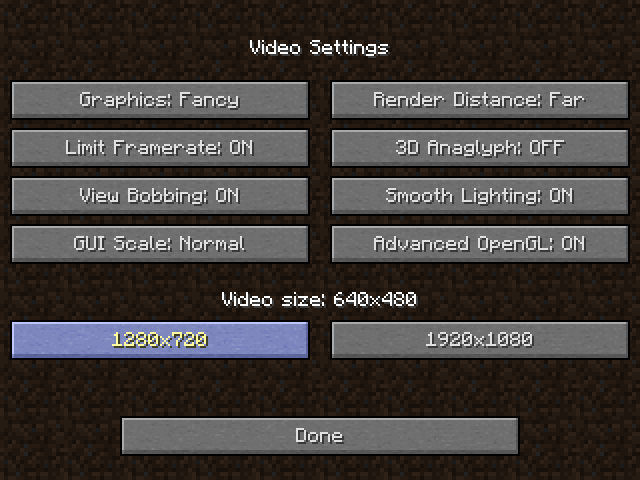
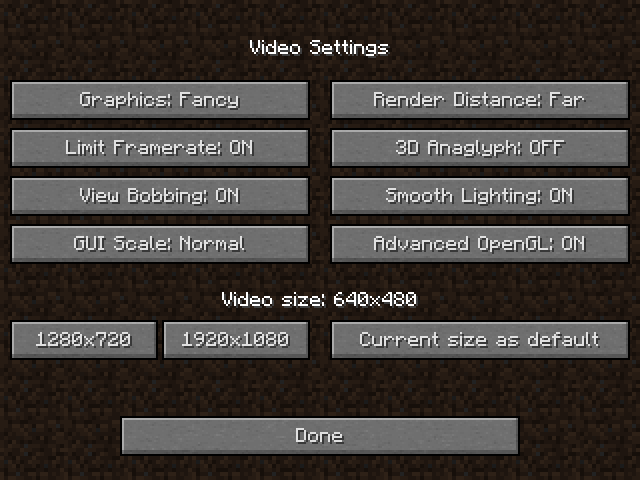
Current Resolution can now be saved and will be restored on game startup.

Changed region(s): [[0.0, 0.6562, 0.5, 0.75], [0.5625, 0.6875, 0.9375, 0.75]]

diff --git a/src/GuiVideoSettings.java b/src/GuiVideoSettings.java
@@ -5,6 +5,9 @@
 package net.minecraft.src;
 
 import java.awt.Frame;
+import java.io.File;
+import java.io.FileWriter;
+import java.io.PrintWriter;
 import java.util.List;
 
 import org.lwjgl.opengl.Display;
@@ -45,8 +48,9 @@ public class GuiVideoSettings extends GuiScreen
             i++;
         }
 
-        controlList.add(new GuiSmallButton(101, width / 2 - 155, height / 6 + 24 * 5, "1280x720"));
-        controlList.add(new GuiSmallButton(102, width / 2 - 155 + 160, height / 6 + 24 * 5, "1920x1080"));
+        controlList.add(new GuiSmallButton(101, width / 2 - 155, height / 6 + 24 * 5, 75, 20, "1280x720"));
+        controlList.add(new GuiSmallButton(102, width / 2 - 155 + 76, height / 6 + 24 * 5, 75, 20, "1920x1080"));
+        controlList.add(new GuiSmallButton(103, width / 2 - 155 + 160, height / 6 + 24 * 5, "Current size as default"));
         controlList.add(new GuiButton(200, width / 2 - 100, height / 6 + 168, stringtranslate.translateKey("gui.done")));
     }
 
@@ -74,7 +78,10 @@ public class GuiVideoSettings extends GuiScreen
         {
         	setInnerSize(1920, 1080);
         }
-        
+        if(guibutton.id == 103)
+        {
+        	setDefaultResolution();
+        }
         ScaledResolution scaledresolution = new ScaledResolution(mc.gameSettings, mc.displayWidth, mc.displayHeight);
         int i = scaledresolution.getScaledWidth();
         int j = scaledresolution.getScaledHeight();
@@ -96,7 +103,7 @@ public class GuiVideoSettings extends GuiScreen
         super.drawScreen(i, j, f);
     }
     
-    private void setInnerSize( int width, int height )
+    public static void setInnerSize( int width, int height )
     {
     	Frame c = java.awt.Frame.getFrames()[0];
     	int iw = c.getInsets().left + c.getInsets().right;
@@ -111,18 +118,38 @@ public class GuiVideoSettings extends GuiScreen
     	c.setLocationRelativeTo(null);
     }
     
-    private int getInnerWidth()
+    public static int getInnerWidth()
     {
     	Frame c = java.awt.Frame.getFrames()[0];
     	int iw = c.getInsets().left + c.getInsets().right;
     	return c.getSize().width - iw;
     }
     
-    private int getInnerHeight()
+    public static int getInnerHeight()
     {
     	Frame c = java.awt.Frame.getFrames()[0];
     	int ih = c.getInsets().top + c.getInsets().bottom;
     	return c.getSize().height - ih;
+    }
+    
+    public static void setDefaultResolution()
+    {
+    	File mcResConfig = new File(Minecraft.getMinecraftDir(), "mcResConfig.txt");
+    	try
+        {
+    		Frame c = java.awt.Frame.getFrames()[0];
+            PrintWriter printwriter = new PrintWriter(new FileWriter(mcResConfig));
+            printwriter.println((new StringBuilder()).append("width:").append(getInnerWidth()).toString());
+            printwriter.println((new StringBuilder()).append("height:").append(getInnerHeight()).toString());
+            int maximized = c.getExtendedState() == Frame.MAXIMIZED_BOTH ? 1 : 0;
+            printwriter.println((new StringBuilder()).append("maximized:").append(maximized).toString());
+            printwriter.close();
+        }
+        catch(Exception exception)
+        {
+            System.out.println("MinecraftResize: Failed to save screen resolution");
+            exception.printStackTrace();
+        }
     }
 
     private GuiScreen field_22110_h;

diff --git a/src/MinecraftAppletImpl.java b/src/MinecraftAppletImpl.java
@@ -1,0 +1,106 @@
+// Decompiled by Jad v1.5.8g. Copyright 2001 Pavel Kouznetsov.
+// Jad home page: http://www.kpdus.com/jad.html
+// Decompiler options: packimports(3) braces deadcode 
+
+package net.minecraft.src;
+
+import java.awt.*;
+import java.io.BufferedReader;
+import java.io.File;
+import java.io.FileReader;
+
+import net.minecraft.client.Minecraft;
+import net.minecraft.client.MinecraftApplet;
+
+// Referenced classes of package net.minecraft.src:
+//            PanelCrashReport, UnexpectedThrowable
+
+public class MinecraftAppletImpl extends Minecraft
+{
+
+    public MinecraftAppletImpl(MinecraftApplet minecraftapplet, Component component, Canvas canvas, MinecraftApplet minecraftapplet1, int i, int j, boolean flag)
+    {
+        super(component, canvas, minecraftapplet1, getDefaultWidth(), getDefaultHeight(), flag);
+        mainFrame = minecraftapplet;
+    }
+    
+    private static int getDefaultWidth()
+    {
+    	if(width == 0) loadDefaultResolution();
+    	return width;
+    }
+    
+    private static int getDefaultHeight()
+    {
+    	if(height == 0) loadDefaultResolution();
+    	return height;
+    }
+    
+    public static void loadDefaultResolution()
+    {
+        File mcResConfig = new File(Minecraft.getMinecraftDir(), "mcResConfig.txt");
+	    try
+	    {
+	        if(mcResConfig.exists())
+	        {
+		        BufferedReader bufferedreader = new BufferedReader(new FileReader(mcResConfig));
+		        for(String line = ""; (line = bufferedreader.readLine()) != null;)
+		        {
+		            String key[] = line.split(":");
+		            if(key[0].equals("width"))
+		            {
+		                width = Integer.parseInt(key[1]);
+		            }
+		            if(key[0].equals("height"))
+		            {
+		                height = Integer.parseInt(key[1]);
+		            }
+		            if(key[0].equals("maximized"))
+		            {
+		                maximized = Integer.parseInt(key[1]);
+		            }
+		        }
+		        bufferedreader.close();
+	        }
+	    }
+	    catch(Exception exception)
+	    {
+	        System.out.println("MinecraftResolutions: Failed to load config");
+	    }
+	    
+	    if( width > 0 && height > 0 )
+	    {
+	    	Frame c = java.awt.Frame.getFrames()[0];
+	    	if(maximized == 0)
+	    	{
+		    	int iw = c.getInsets().left + c.getInsets().right;
+		    	int ih = c.getInsets().top + c.getInsets().bottom;
+		    	int oldw = c.getSize().width;
+		    	int oldh = c.getSize().height;
+		    	c.setSize(width + iw, height + ih);
+		    	int istw = c.getSize().width - iw;
+		    	int isth = c.getSize().height - ih;
+		    	if(istw != width || isth != height)
+		    	{
+		    		c.setSize(oldw, oldh);
+		    	}
+		    	c.setLocationRelativeTo(null);
+	    	}
+	    	else
+	    	{
+	    		c.setExtendedState(Frame.MAXIMIZED_BOTH);
+	    	}
+	    }
+    }
+
+    public void displayUnexpectedThrowable(UnexpectedThrowable unexpectedthrowable)
+    {
+        mainFrame.removeAll();
+        mainFrame.setLayout(new BorderLayout());
+        mainFrame.add(new PanelCrashReport(unexpectedthrowable), "Center");
+        mainFrame.validate();
+    }
+
+    final MinecraftApplet mainFrame; /* synthetic field */
+    static int width = 0, height = 0, maximized = 0;
+}
